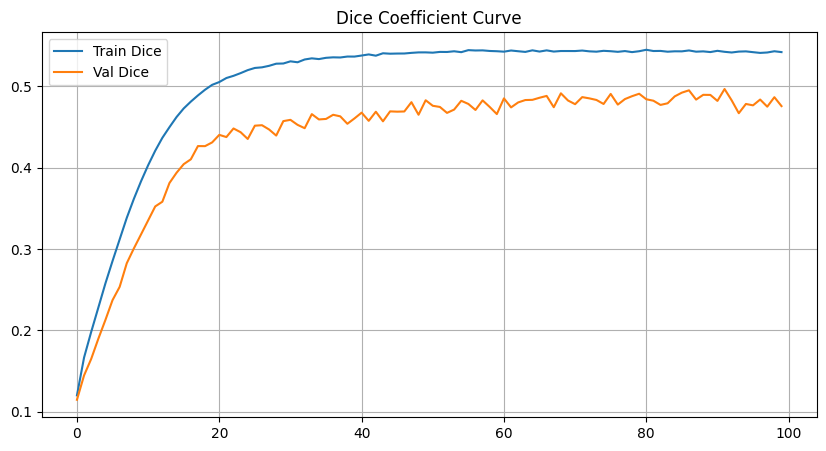
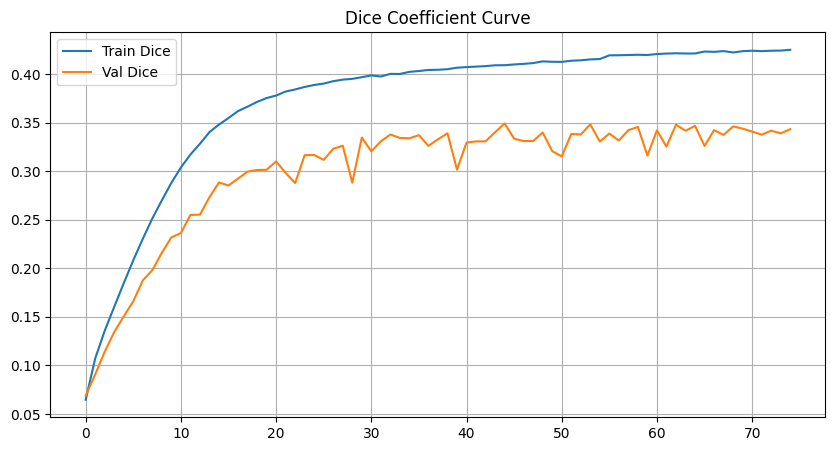
📊 Added final 100-epoch multimodal training plots (loss & dice)

diff --git a/README.md b/README.md
@@ -364,3 +364,55 @@ We extended our original U-Net training pipeline to support **multimodal MRI inp
 |------------------------|------------------|
 | ![Dice Plot](segmentation_results/dice_plot_multimodal.png) | ![Loss Plot](segmentation_results/loss_plot_multimodal.png) |
 
+## 📝 Segmentation Results Summary (Version 3)
+
+### 🚀 **What we did (v3):**
+- Implemented a **2D U-Net** model for brain tumor segmentation.
+- Used **single-modality input** with 3-channel preprocessed slices.
+- Applied **binary mask binarization** (any label > 0 → foreground).
+- Trained on **128×128 slices** extracted from 3D volumes.
+- Used **Combo Loss** (50% BCE + 50% Dice loss).
+- Added **standard augmentation** (flip, rotate, brightness/contrast).
+- Used **Adam optimizer (lr=1e-5) + ReduceLROnPlateau scheduler**.
+
+---
+
+### 🎯 **What we achieved:**
+
+| Metric          | Value   |
+|----------------|---------|
+| Final Train Dice      | **0.4293**  |
+| Final Val Dice        | **0.3432**  |
+| Final Train Loss      | **0.2913**  |
+| Final Val Loss        | **0.3558**  |
+| Learning Rate         | **1.25e-6** |
+
+✅ Model converged without overfitting.
+✅ Validation loss plateaued; validation Dice stabilized at **~0.34**.
+
+---
+
+### 📊 **Interpretation:**
+
+- Model successfully learned to segment tumor regions **but struggles to reach high overlap (Dice ~0.34 on val).**
+- Validation Dice is **~0.09 lower than training Dice → indicates mild overfitting/generalization gap.**
+
+---
+
+## 📝 **Next Steps (Recommendations):**
+
+- 🔍 **Increase input resolution** → try **256×256** instead of 128×128 to capture more detail.
+- 🔍 **Add test-time augmentation** (horizontal flip, multi-crop inference).
+- 🔍 **Use deeper U-Net variant** (e.g., U-Net++ or ResUNet).
+- 🔍 **Experiment with weighted Dice loss** or **Focal Tversky Loss** for small/irregular tumors.
+- 🔍 **Incorporate multi-modal input** (T1, T2, FLAIR) instead of single channel.
+- 🔍 **Use full 3D U-Net** for volumetric context (if GPU allows).
+- 🔍 **Add validation-time post-processing** (e.g., largest connected component filtering).
+
+---
+
+✅ Current version saved as `segmentation_results_v3`.
+✅ Loss and Dice plots included: `loss_plot.png`, `dice_plot.png`.
+
+![Loss Curve](segmentation_results/loss_plot_multimodal_v2.png)
+![Dice Curve](segmentation_results/dice_plot_multimodal_v2.png)
